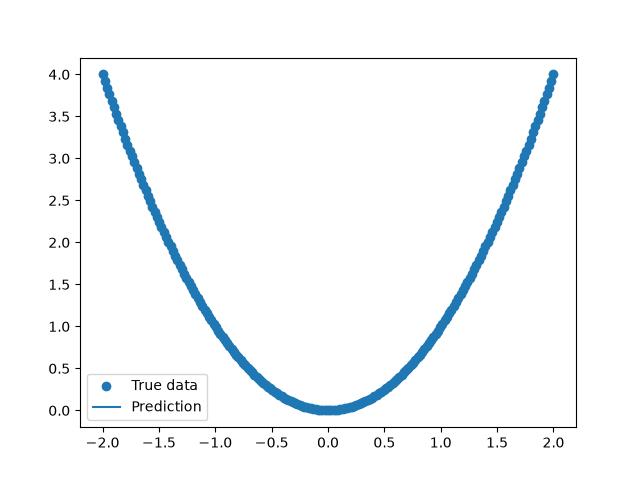
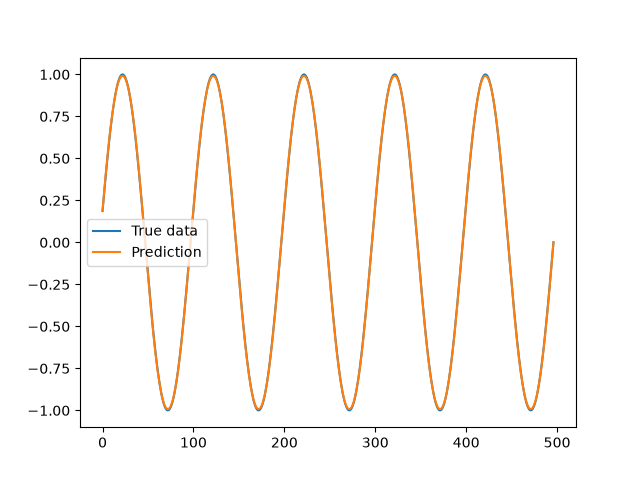
Add sliding-window preprocessing and sequence forecasting

diff --git a/datasets.py b/datasets.py
@@ -1,6 +1,23 @@
 import numpy as np
 
+def load_sequence():
+    x = np.linspace(0, 10 * np.pi, 500)
+    data = np.sin(x)
+    return data
+
 def data_creation():
     X = np.linspace(-2, 2, 200).reshape(-1, 1)
     Y = X ** 2
     return X, Y
+
+def create_windows(data, window_size):
+    X = []
+    Y = []
+    i = 0
+
+    while i < len(data) - window_size:
+        X.append(data[i:i+window_size])
+        Y.append(data[i+window_size])
+        i += 1
+
+    return np.array(X), np.array(Y).reshape(-1,1)

diff --git a/main.py b/main.py
@@ -1,4 +1,4 @@
-from datasets import data_creation
+from datasets import data_creation, load_sequence, create_windows
 from neural_network import (
     initialize_parameters,
     forward
@@ -6,10 +6,11 @@ from neural_network import (
 from trainer import train
 from utils import plot_prediction
 
-X, Y = data_creation()
+data = load_sequence()
+X, Y = create_windows(data, 3)
 
 parameters = initialize_parameters(
-    input_size=1,
+    input_size=3,
     hidden_size=8,
     output_size=1
 )
@@ -18,11 +19,12 @@ parameters, losses = train(
     X,
     Y,
     parameters,
-    epochs=10000,
+    epochs=1000,
     learning_rate=0.5
 )
 
+
 print(losses)
 predictions, _ = forward(X, parameters)
-
-plot_prediction(X, Y, predictions)
+print(predictions)
+plot_prediction(Y, predictions)

diff --git a/utils.py b/utils.py
@@ -1,8 +1,8 @@
 import matplotlib.pyplot as plt
 
-def plot_prediction(X, Y, predictions):
-    plt.scatter(X, Y, label="True data")
-    plt.plot(X, predictions, label="Prediction")
+def plot_prediction(Y, predictions):
+    plt.plot(Y, label="True data")
+    plt.plot(predictions, label="Prediction")
 
     plt.legend()
     plt.savefig("images/regression_demo.png")